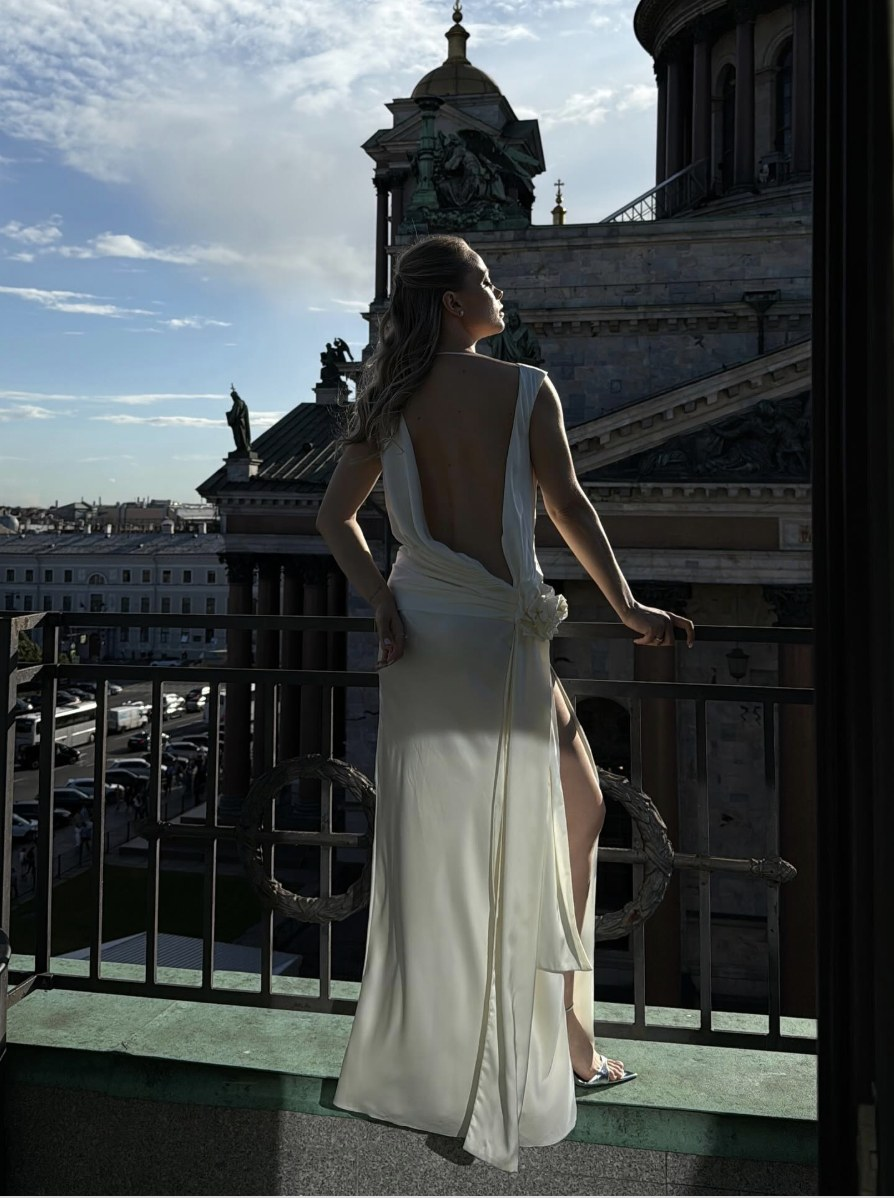
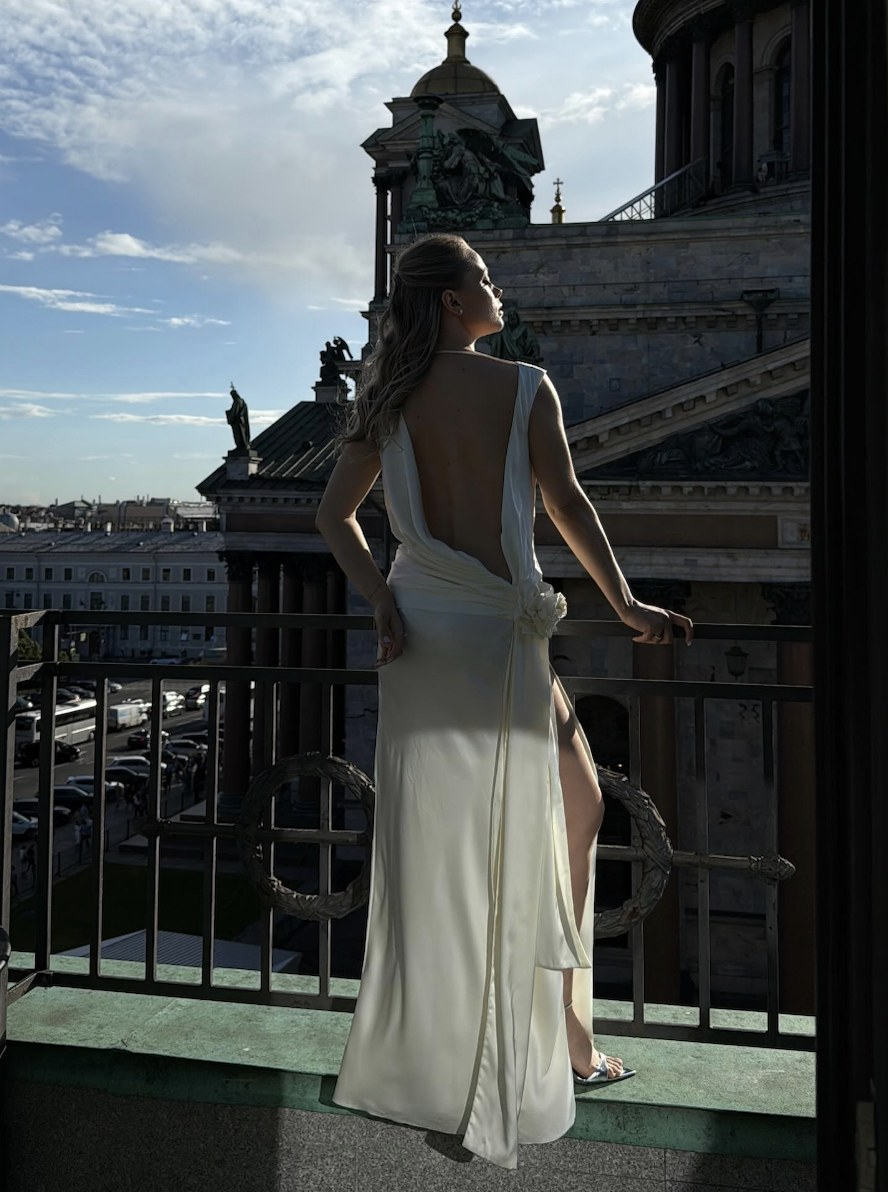
site5: recropped balcony photo
Claude-Session: https://claude.ai/code/session_01KyajVLKUVsee1jfkNLJD5g

diff --git a/site5/script.js b/site5/script.js
@@ -39,7 +39,7 @@
     { media: 'image', src: 'media/work-5.jpg', alt: 'Невеста в платье с накидкой в музейном коридоре' },
     { media: 'image', src: 'media/work-10.jpg', alt: 'Невеста в многоярусном платье оглядывается на прогулке' },
     { media: 'image', src: 'media/work-6.jpg', alt: 'Вечернее платье из жаккарда на лестнице' },
-    { media: 'image', src: 'media/work-7.jpg', alt: 'Атласное платье с открытой спиной на балконе' },
+    { media: 'image', src: 'media/work-7.jpg?v=2', alt: 'Атласное платье с открытой спиной на балконе' },
     { media: 'image', src: 'media/work-11.jpg', alt: 'Белый костюм с топом на прогулке по воде' },
     { media: 'image', src: 'media/work-12.jpg', alt: 'Невеста в лёгком платье с открытыми плечами у реки' }
   ];

diff --git a/site5/index.html b/site5/index.html
@@ -55,7 +55,7 @@
       <a class="credit" href="https://nadigrb.ru/me" target="_blank" rel="noopener"><span>Сайт разработан — <u>Nadigrb</u></span></a>
     </div>
   </section>
-  <script src="script.js?v=6"></script>
+  <script src="script.js?v=7"></script>
   <script src="film.js?v=12"></script>
 </body>
 </html>
